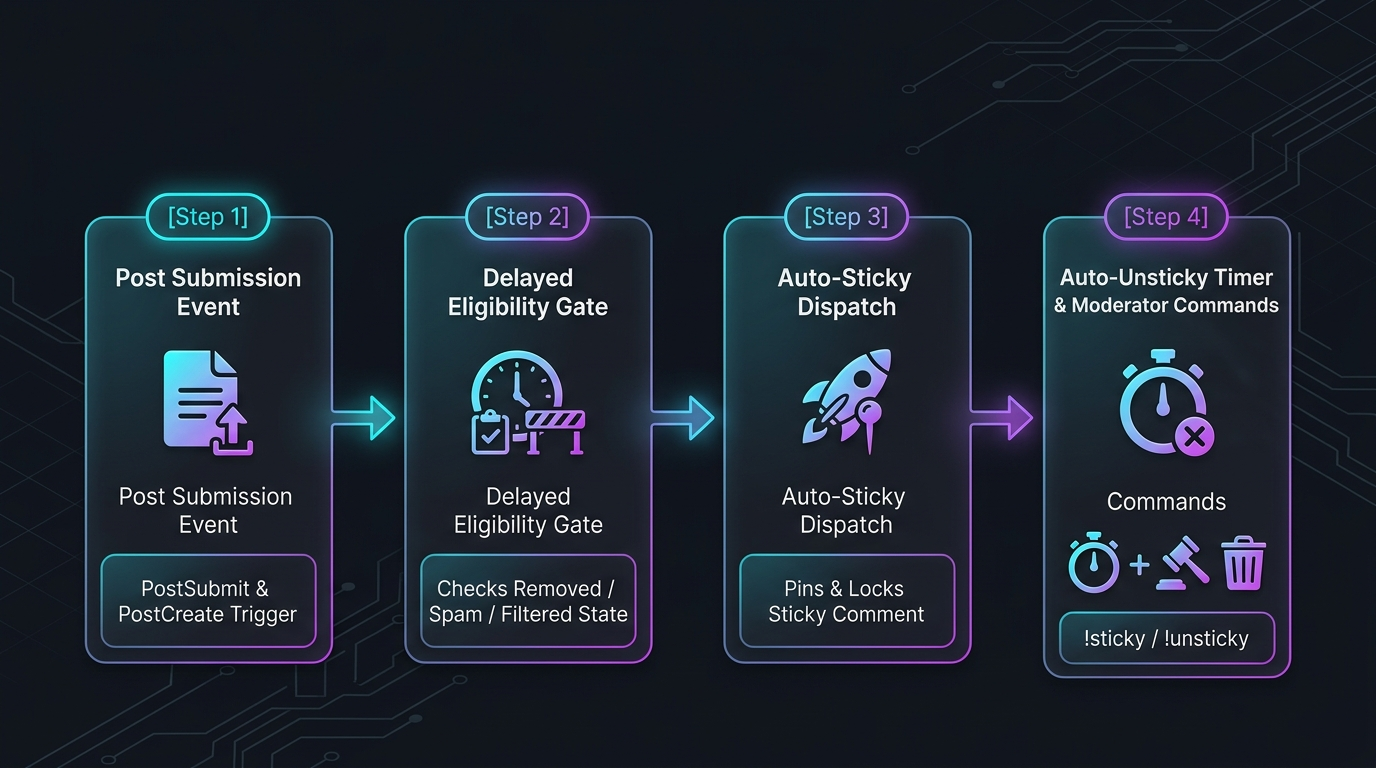
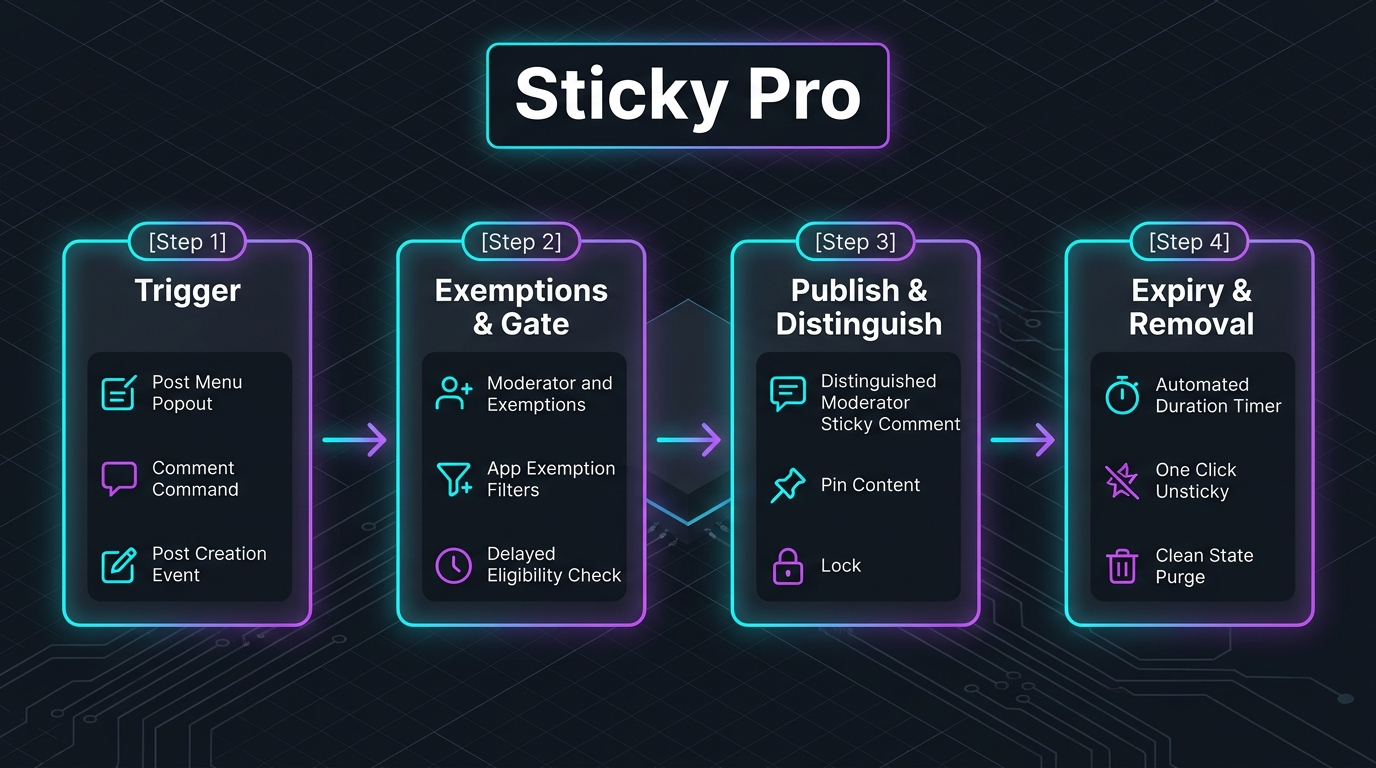
chore: update assets for sticky-pro v1.0.112

Changed region(s): [[0.0312, 0.0312, 0.9688, 0.9375], [0.6875, 0.9062, 0.75, 0.9375], [0.0938, 0.9375, 0.125, 0.9688]]

diff --git a/sticky-pro/wiki.html b/sticky-pro/wiki.html
@@ -1,7 +1,7 @@
 <h1>Sticky-Pro</h1>
 
 <p>Category: Moderation<br>
-Version: v1.0.111<br>
+Version: v1.0.112<br>
 Visibility: Public<br>
 Summary: Automated moderator sticky suite with dynamic form population.</p>
 
@@ -17,6 +17,7 @@ Summary: Automated moderator sticky suite with dynamic form population.</p>
 <li>One-Click Unsticky Action: Select Remove Active Sticky inside the popout to immediately unpin and remove the active sticky comment and cancel any pending timers.</li>
 <li>Duration Expiration Timers: Automatically expire and remove sticky comments after a configurable countdown (1 hour, 6 hours, 12 hours, 24 hours, 3 days, 7 days) via scheduled background jobs.</li>
 <li>Auto-Sticky Posting: Can be configured to automatically submit and lock a sticky comment on every new post in the subreddit, with built-in deduplication and delayed eligibility checking.</li>
+<li>Author & Post Exemptions: Configurable settings to automatically skip posting auto-stickies on submissions authored by subreddit moderators (`skipModeratorPosts`) and submissions created by Reddit apps, bots, AutoModerator, or Devvit custom posts (`skipAppAndBotPosts`).</li>
 <li>Auto-Pin Control: Configurable setting (`autoPin`) to control whether sticky comments are pinned to the top of the comment section or distinguished as moderator comments without pinning.</li>
 <li>Enhanced Comment Commands: Quick moderator commands (`!sticky 1 24h`, `!sticky 2 3d`, `!sticky 3`, `!unsticky`) available as fast mobile and desktop shortcuts.</li>
 <li>Reliable Deliveries: Automatically retries and bypasses platform rate limits when posting, ensuring your moderation actions never fail silently.</li>
@@ -59,6 +60,8 @@ Summary: Automated moderator sticky suite with dynamic form population.</p>
 <li>skipIfRemoved: Skip if Post is Removed (boolean, default: true). Skip auto-sticky if the post is removed by the time the delay expires.</li>
 <li>skipIfFiltered: Skip if Post is Filtered (In Modqueue) (boolean, default: false). Skip auto-sticky if awaiting mod approval. Default OFF - mods often want stickies on filtered posts.</li>
 <li>skipIfSpam: Skip if Post is Marked as Spam (boolean, default: true). Skip auto-sticky if the post is marked as spam when the delay expires.</li>
+<li>skipModeratorPosts: Skip Moderator Posts (boolean, default: true). When enabled, auto-sticky comments will not be posted on submissions by subreddit moderators.</li>
+<li>skipAppAndBotPosts: Skip App and Bot Posts (boolean, default: true). When enabled, auto-sticky comments will not be posted on Reddit apps, automod, bot accounts, or Devvit custom posts.</li>
 </ul>
 
 <h2>Automation Capabilities</h2>
@@ -84,6 +87,7 @@ Summary: Automated moderator sticky suite with dynamic form population.</p>
 <li>Navigate to your subreddit's Mod Tools > App Settings > Sticky Pro.</li>
 <li>Define your Markdown text and custom display labels for Template 1, 2, and 3.</li>
 <li>Toggle Enable Auto-Sticky on Every Post and set Pin Auto-Sticky Comment to Top (`autoPin`).</li>
+<li>Configure Author & Post Exemptions: Toggle Skip Moderator Posts and Skip App and Bot Posts.</li>
 <li>Configure Delayed Eligibility-First processing preferences (delay duration, skip if removed, skip if spam).</li>
 <li>Usage:</li>
 <li>On any post, open the moderator menu (`...`), select Sticky Pro, and choose Post / Customize Sticky or Remove Active Sticky.</li>
@@ -97,11 +101,11 @@ Summary: Automated moderator sticky suite with dynamic form population.</p>
 </ul>
 
 <h2>Version History</h2>
+<p>1.0.112 — 2026-09-04<br>
+Standard fleet synchronization and maintenance.</p>
 <p>1.0.111 — 2026-09-04<br>
 Standard fleet synchronization and maintenance.</p>
 <p>1.0.110 — 2026-09-03<br>
-Standard fleet synchronization and maintenance.</p>
-<p>1.0.109 — 2026-09-02<br>
 Standard fleet synchronization and maintenance.</p>
 
 <h2>Links</h2>

diff --git a/sticky-pro/readme.html b/sticky-pro/readme.html
@@ -13,6 +13,7 @@
 <li><strong>One-Click Unsticky Action</strong>: Select <strong>Remove Active Sticky</strong> inside the popout to immediately unpin and remove the active sticky comment and cancel any pending timers.</li>
 <li><strong>Duration Expiration Timers</strong>: Automatically expire and remove sticky comments after a configurable countdown (1 hour, 6 hours, 12 hours, 24 hours, 3 days, 7 days) via scheduled background jobs.</li>
 <li><strong>Auto-Sticky Posting</strong>: Can be configured to automatically submit and lock a sticky comment on every new post in the subreddit, with built-in deduplication and delayed eligibility checking.</li>
+<li><strong>Author & Post Exemptions</strong>: Configurable settings to automatically skip posting auto-stickies on submissions authored by subreddit moderators (`skipModeratorPosts`) and submissions created by Reddit apps, bots, AutoModerator, or Devvit custom posts (`skipAppAndBotPosts`).</li>
 <li><strong>Auto-Pin Control</strong>: Configurable setting (`autoPin`) to control whether sticky comments are pinned to the top of the comment section or distinguished as moderator comments without pinning.</li>
 <li><strong>Enhanced Comment Commands</strong>: Quick moderator commands (`!sticky 1 24h`, `!sticky 2 3d`, `!sticky 3`, `!unsticky`) available as fast mobile and desktop shortcuts.</li>
 <li><strong>Reliable Deliveries</strong>: Automatically retries and bypasses platform rate limits when posting, ensuring your moderation actions never fail silently.</li>
@@ -22,7 +23,7 @@
 <p><a href="https://raw.githubusercontent.com/grantdb/reddit-app-legal/main/assets/flowcharts/sticky-pro-flowchart.png">Logic Flowchart</a></p>
 <h3>Workflow Steps</h3>
 <p>1. <strong>Trigger</strong>: A moderator selects <strong>Sticky Pro</strong> from a post menu, triggers a comment command (`!sticky 1 24h`), OR a new post triggers the auto-sticky feature.</p>
-<p>2. <strong>Eligibility & Replacement</strong>: For auto-sticky, Sticky Pro evaluates the Delayed Eligibility-First Gate. For manual posts, it automatically cleans up any previous sticky comment and timer on that post.</p>
+<p>2. <strong>Eligibility & Exemptions</strong>: For auto-sticky, Sticky Pro evaluates moderator and app/bot author exemptions, followed by the Delayed Eligibility-First Gate. For manual posts, it automatically cleans up any previous sticky comment and timer on that post.</p>
 <p>3. <strong>Publish</strong>: Sticky Pro retrieves the template markdown or custom input, distinguishes the comment as an official moderator action, pins it to top if requested, and locks it against user replies.</p>
 <p>4. <strong>Timer / Expiry</strong>: If a duration timer is specified, a scheduled background job (`unsticky_timer`) automatically unpins/removes the sticky when time expires.</p>
 <p>5. <strong>Removal</strong>: Selecting <strong>Remove Active Sticky</strong> in the popout or commenting `!unsticky` immediately cleans up the active sticky comment.</p>
@@ -34,6 +35,7 @@
 <li>Navigate to your subreddit's <strong>Mod Tools > App Settings > Sticky Pro</strong>.</li>
 <li>Define your Markdown text and custom display labels for Template 1, 2, and 3.</li>
 <li>Toggle <strong>Enable Auto-Sticky on Every Post</strong> and set <strong>Pin Auto-Sticky Comment to Top</strong> (`autoPin`).</li>
+<li>Configure <strong>Author & Post Exemptions</strong>: Toggle <strong>Skip Moderator Posts</strong> and <strong>Skip App and Bot Posts</strong>.</li>
 <li>Configure Delayed Eligibility-First processing preferences (delay duration, skip if removed, skip if spam).</li>
 </ul>
 <p>3. <strong>Usage</strong>:</p>

diff --git a/sticky-pro/wiki.md b/sticky-pro/wiki.md
@@ -1,7 +1,7 @@
 # Sticky-Pro
 
 Category: Moderation  
-Version: v1.0.111  
+Version: v1.0.112  
 Visibility: Public  
 Summary: Automated moderator sticky suite with dynamic form population.
 
@@ -16,6 +16,7 @@ Automated moderator sticky suite with dynamic form population.
 - One-Click Unsticky Action: Select Remove Active Sticky inside the popout to immediately unpin and remove the active sticky comment and cancel any pending timers.
 - Duration Expiration Timers: Automatically expire and remove sticky comments after a configurable countdown (1 hour, 6 hours, 12 hours, 24 hours, 3 days, 7 days) via scheduled background jobs.
 - Auto-Sticky Posting: Can be configured to automatically submit and lock a sticky comment on every new post in the subreddit, with built-in deduplication and delayed eligibility checking.
+- Author & Post Exemptions: Configurable settings to automatically skip posting auto-stickies on submissions authored by subreddit moderators (`skipModeratorPosts`) and submissions created by Reddit apps, bots, AutoModerator, or Devvit custom posts (`skipAppAndBotPosts`).
 - Auto-Pin Control: Configurable setting (`autoPin`) to control whether sticky comments are pinned to the top of the comment section or distinguished as moderator comments without pinning.
 - Enhanced Comment Commands: Quick moderator commands (`!sticky 1 24h`, `!sticky 2 3d`, `!sticky 3`, `!unsticky`) available as fast mobile and desktop shortcuts.
 - Reliable Deliveries: Automatically retries and bypasses platform rate limits when posting, ensuring your moderation actions never fail silently.
@@ -48,6 +49,8 @@ Subreddit moderators configure the app in Mod Tools -> App Settings.
 - skipIfRemoved: Skip if Post is Removed (boolean, default: true). Skip auto-sticky if the post is removed by the time the delay expires.
 - skipIfFiltered: Skip if Post is Filtered (In Modqueue) (boolean, default: false). Skip auto-sticky if awaiting mod approval. Default OFF - mods often want stickies on filtered posts.
 - skipIfSpam: Skip if Post is Marked as Spam (boolean, default: true). Skip auto-sticky if the post is marked as spam when the delay expires.
+- skipModeratorPosts: Skip Moderator Posts (boolean, default: true). When enabled, auto-sticky comments will not be posted on submissions by subreddit moderators.
+- skipAppAndBotPosts: Skip App and Bot Posts (boolean, default: true). When enabled, auto-sticky comments will not be posted on Reddit apps, automod, bot accounts, or Devvit custom posts.
 
 ## Automation Capabilities
 - Submits Automated Comments: Yes — Posts automated comments on target submissions.
@@ -68,6 +71,7 @@ This app utilizes Reddit Redis storage for state management, caching, and rate l
 - Navigate to your subreddit's Mod Tools > App Settings > Sticky Pro.
 - Define your Markdown text and custom display labels for Template 1, 2, and 3.
 - Toggle Enable Auto-Sticky on Every Post and set Pin Auto-Sticky Comment to Top (`autoPin`).
+- Configure Author & Post Exemptions: Toggle Skip Moderator Posts and Skip App and Bot Posts.
 - Configure Delayed Eligibility-First processing preferences (delay duration, skip if removed, skip if spam).
 - Usage:
 - On any post, open the moderator menu (`...`), select Sticky Pro, and choose Post / Customize Sticky or Remove Active Sticky.
@@ -78,13 +82,13 @@ This app utilizes Reddit Redis storage for state management, caching, and rate l
 - Ensure all required app settings and API keys are properly configured in Mod Tools.
 
 ## Version History
+1.0.112 — 2026-09-04
+- Standard fleet synchronization and maintenance.
+
 1.0.111 — 2026-09-04
 - Standard fleet synchronization and maintenance.
 
 1.0.110 — 2026-09-03
-- Standard fleet synchronization and maintenance.
-
-1.0.109 — 2026-09-02
 - Standard fleet synchronization and maintenance.
 
 ## Links

diff --git a/sticky-pro/README.md b/sticky-pro/README.md
@@ -19,6 +19,7 @@
 - **One-Click Unsticky Action**: Select **Remove Active Sticky** inside the popout to immediately unpin and remove the active sticky comment and cancel any pending timers.
 - **Duration Expiration Timers**: Automatically expire and remove sticky comments after a configurable countdown (1 hour, 6 hours, 12 hours, 24 hours, 3 days, 7 days) via scheduled background jobs.
 - **Auto-Sticky Posting**: Can be configured to automatically submit and lock a sticky comment on every new post in the subreddit, with built-in deduplication and delayed eligibility checking.
+- **Author & Post Exemptions**: Configurable settings to automatically skip posting auto-stickies on submissions authored by subreddit moderators (`skipModeratorPosts`) and submissions created by Reddit apps, bots, AutoModerator, or Devvit custom posts (`skipAppAndBotPosts`).
 - **Auto-Pin Control**: Configurable setting (`autoPin`) to control whether sticky comments are pinned to the top of the comment section or distinguished as moderator comments without pinning.
 - **Enhanced Comment Commands**: Quick moderator commands (`!sticky 1 24h`, `!sticky 2 3d`, `!sticky 3`, `!unsticky`) available as fast mobile and desktop shortcuts.
 - **Reliable Deliveries**: Automatically retries and bypasses platform rate limits when posting, ensuring your moderation actions never fail silently.
@@ -32,7 +33,7 @@
 ### Workflow Steps
 
 1. **Trigger**: A moderator selects **Sticky Pro** from a post menu, triggers a comment command (`!sticky 1 24h`), OR a new post triggers the auto-sticky feature.
-2. **Eligibility & Replacement**: For auto-sticky, Sticky Pro evaluates the Delayed Eligibility-First Gate. For manual posts, it automatically cleans up any previous sticky comment and timer on that post.
+2. **Eligibility & Exemptions**: For auto-sticky, Sticky Pro evaluates moderator and app/bot author exemptions, followed by the Delayed Eligibility-First Gate. For manual posts, it automatically cleans up any previous sticky comment and timer on that post.
 3. **Publish**: Sticky Pro retrieves the template markdown or custom input, distinguishes the comment as an official moderator action, pins it to top if requested, and locks it against user replies.
 4. **Timer / Expiry**: If a duration timer is specified, a scheduled background job (`unsticky_timer`) automatically unpins/removes the sticky when time expires.
 5. **Removal**: Selecting **Remove Active Sticky** in the popout or commenting `!unsticky` immediately cleans up the active sticky comment.
@@ -46,6 +47,7 @@
    - Navigate to your subreddit's **Mod Tools > App Settings > Sticky Pro**.
    - Define your Markdown text and custom display labels for Template 1, 2, and 3.
    - Toggle **Enable Auto-Sticky on Every Post** and set **Pin Auto-Sticky Comment to Top** (`autoPin`).
+   - Configure **Author & Post Exemptions**: Toggle **Skip Moderator Posts** and **Skip App and Bot Posts**.
    - Configure Delayed Eligibility-First processing preferences (delay duration, skip if removed, skip if spam).
 3. **Usage**:
    - On any post, open the moderator menu (`...`), select **Sticky Pro**, and choose **Post / Customize Sticky** or **Remove Active Sticky**.
